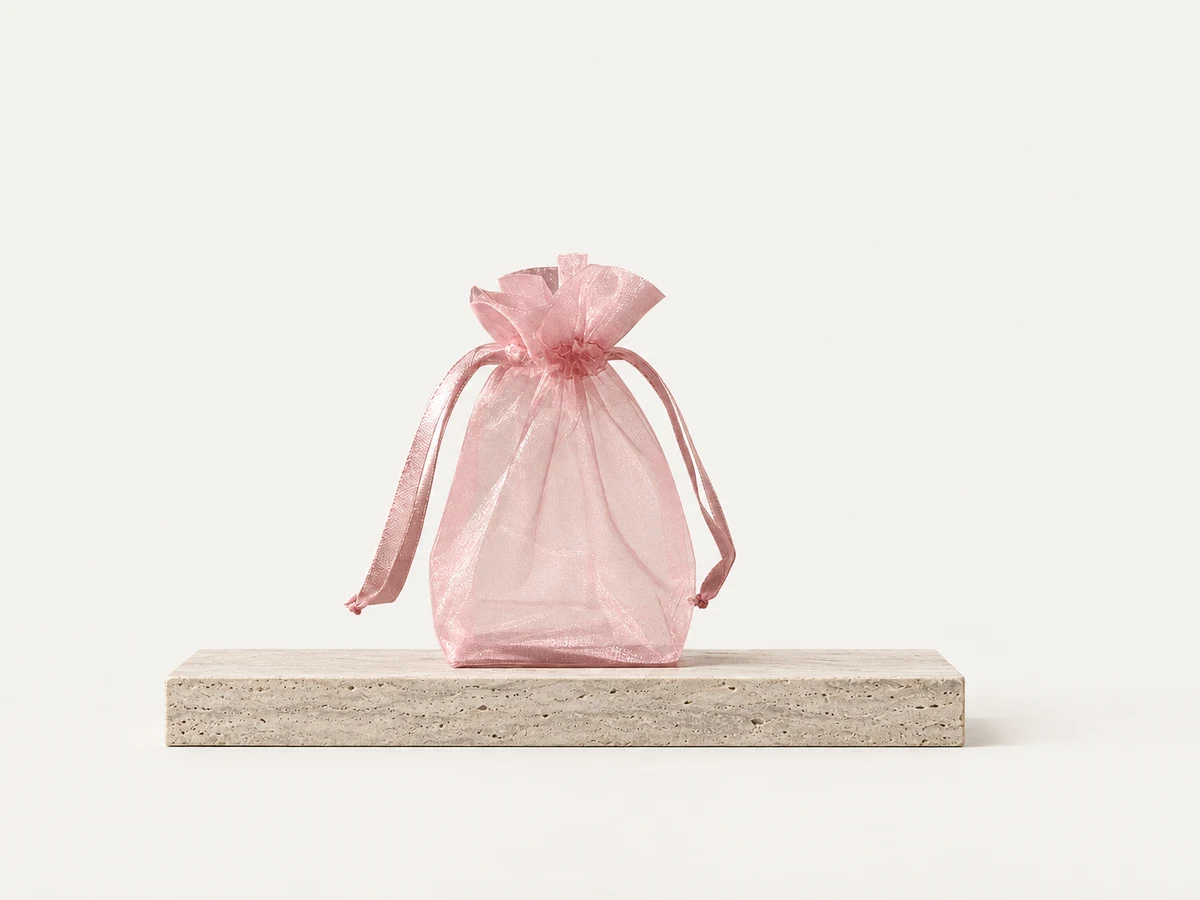
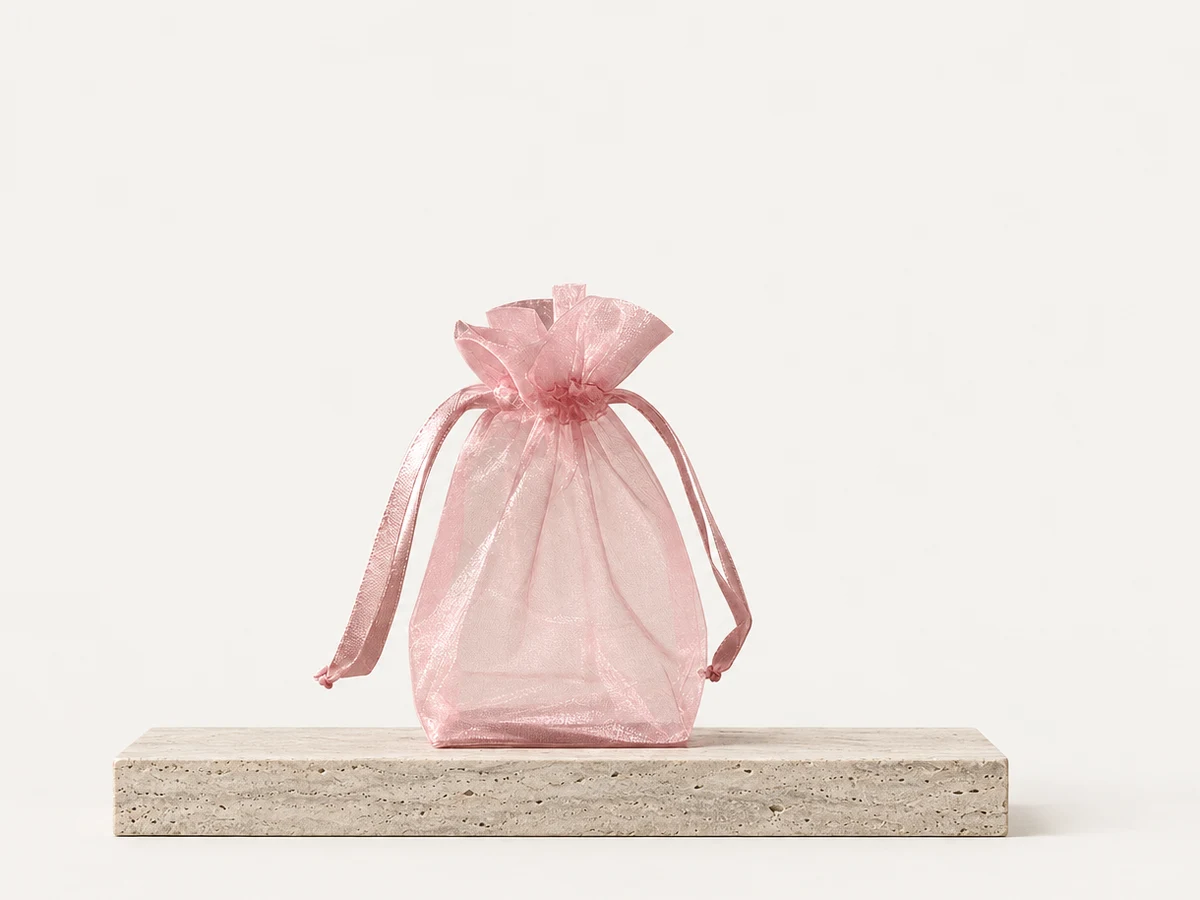
Homepage cards: family rail 12% shorter, collections 12% tighter crop, Build scene keeps headroom

Changed region(s): [[0.0925, 0.28, 0.8942, 0.9333], [0.4317, 0.6222, 0.4625, 0.6533]]

diff --git a/src/components/home/CollectionShopping.module.css b/src/components/home/CollectionShopping.module.css
@@ -143,5 +143,10 @@
 .build{background:transparent;border:0;border-top:1px solid #e4ddd2;border-bottom:1px solid #e4ddd2;border-radius:0;box-shadow:none}
 .buildCopy{padding-left:0}
 /* Family cards trimmed 10px; the image crops symmetrically so the baseline stays put. */
-@media(min-width:641px){.family img{aspect-ratio:auto;height:306px;object-fit:cover;object-position:center}}
 .build img{object-fit:cover;object-position:center;background:transparent}
+/* Family rail cards ~12% shorter than 4:5 (cover crop trims 6% top and bottom; groups sit in the middle half). */
+@media(min-width:641px){.railWrap .family img{aspect-ratio:10/11;height:auto;object-fit:cover;object-position:center}}
+/* Build scene: contain so the sprayer keeps its headroom; the bone in the render matches the section ground. */
+.build img{object-fit:contain;object-position:center bottom;background:transparent}
+/* Collection cards: the 12% tighter crop is baked into the -bone-v3 webp (finish.py ZOOM); image box stays 4:3. */
+.collection img{background:transparent}

diff --git a/scripts/family-cards/finish.py b/scripts/family-cards/finish.py
@@ -1,12 +1,15 @@
 """Crop renders to card aspect (families 4:5, collections 4:3), centred on content, base kept low; write webp + review sheet."""
-import glob, os, json
+import glob, os, json, sys
 import numpy as np
 from PIL import Image, ImageDraw, ImageFont
 BONE = np.array([245, 243, 239])
 SPEC = {"families": ((4, 5), (1000, 1250)), "collections": ((4, 3), (1200, 900))}
+ZOOM = {"collections": 1.12}  # tighter window on the group for collection cards (Jordan 2026-09-13: "12% more")
+ONLY = sys.argv[1] if len(sys.argv) > 1 else None
 rows = {}
 for p in sorted(glob.glob("public/assets/cards/*.png")):
     name = os.path.basename(p)[:-4]; kind = name.split("-")[0]; slug = name[len(kind) + 1:]
+    if ONLY and not name.startswith(ONLY): continue
     (aw, ah), (ow, oh) = SPEC[kind]
     im = Image.open(p).convert("RGB"); a = np.asarray(im).astype(int); H, W = a.shape[:2]
     bg = a[10:60, 10:60].reshape(-1, 3).mean(0)
@@ -15,6 +18,7 @@ for p in sorted(glob.glob("public/assets/cards/*.png")):
     # window at target aspect: as large as fits, content centred horizontally, bottom margin ~5% below content
     ww, wh = W, W * ah / aw
     if wh > H: wh, ww = H, H * aw / ah
+    z = ZOOM.get(kind, 1.0); ww, wh = ww / z, wh / z
     cx = (x0 + x1) / 2; left = min(max(cx - ww / 2, 0), W - ww)
     top = min(max(y1 + 0.05 * wh - wh, 0), H - wh)
     # keep content inside
